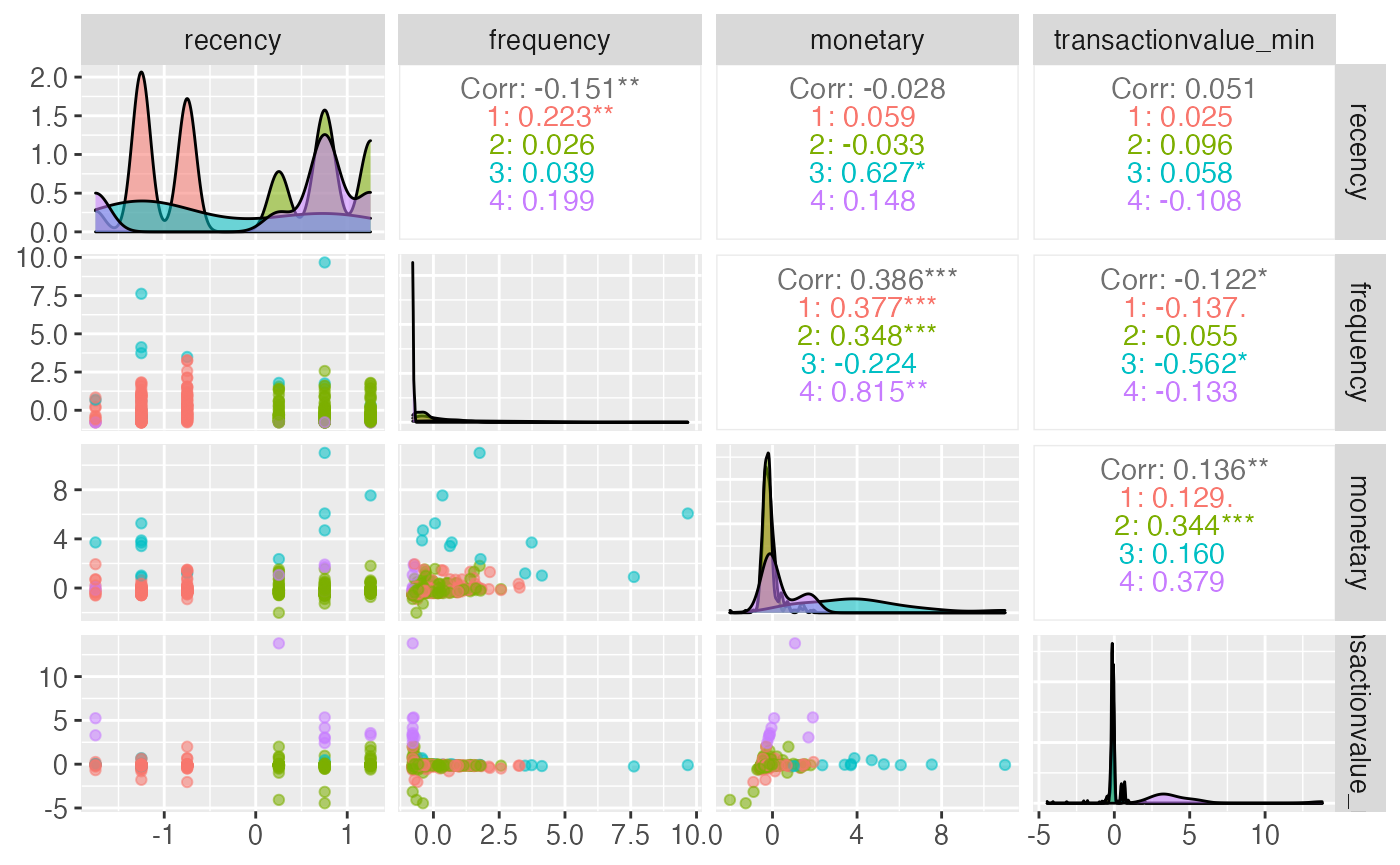
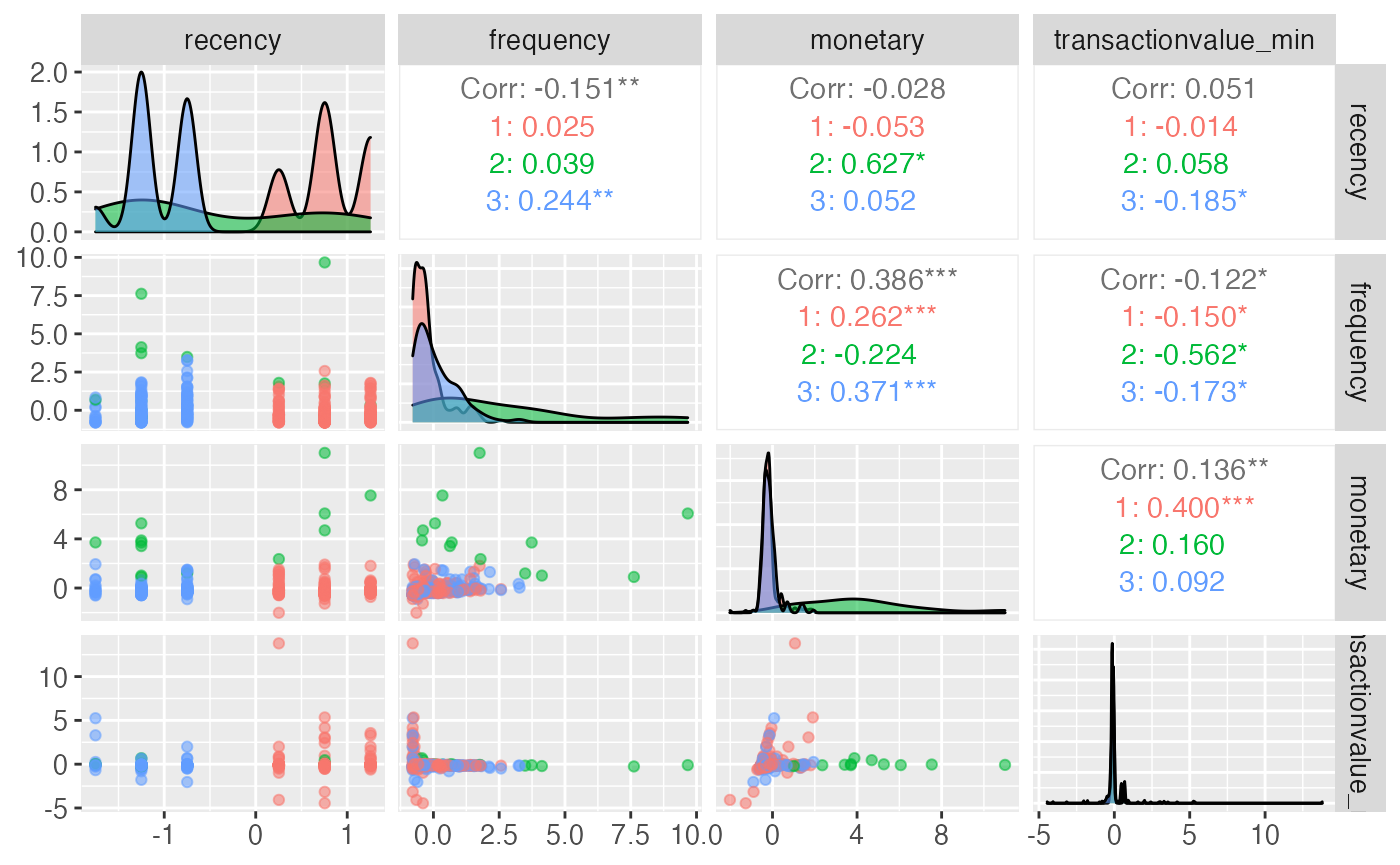
added output table articles

diff --git a/docs/articles/Output_Layer.html b/docs/articles/Output_Layer.html
@@ -5,13 +5,13 @@
 <meta charset="utf-8">
 <meta http-equiv="X-UA-Compatible" content="IE=edge">
 <meta name="viewport" content="width=device-width, initial-scale=1.0">
-<title>Output Layer • citrus</title>
+<title>Output Table • citrus</title>
 <!-- jquery --><script src="https://cdnjs.cloudflare.com/ajax/libs/jquery/3.4.1/jquery.min.js" integrity="sha256-CSXorXvZcTkaix6Yvo6HppcZGetbYMGWSFlBw8HfCJo=" crossorigin="anonymous"></script><!-- Bootstrap --><link href="https://cdnjs.cloudflare.com/ajax/libs/bootswatch/3.4.0/cosmo/bootstrap.min.css" rel="stylesheet" crossorigin="anonymous">
 <script src="https://cdnjs.cloudflare.com/ajax/libs/twitter-bootstrap/3.4.1/js/bootstrap.min.js" integrity="sha256-nuL8/2cJ5NDSSwnKD8VqreErSWHtnEP9E7AySL+1ev4=" crossorigin="anonymous"></script><!-- bootstrap-toc --><link rel="stylesheet" href="../bootstrap-toc.css">
 <script src="../bootstrap-toc.js"></script><!-- Font Awesome icons --><link rel="stylesheet" href="https://cdnjs.cloudflare.com/ajax/libs/font-awesome/5.12.1/css/all.min.css" integrity="sha256-mmgLkCYLUQbXn0B1SRqzHar6dCnv9oZFPEC1g1cwlkk=" crossorigin="anonymous">
 <link rel="stylesheet" href="https://cdnjs.cloudflare.com/ajax/libs/font-awesome/5.12.1/css/v4-shims.min.css" integrity="sha256-wZjR52fzng1pJHwx4aV2AO3yyTOXrcDW7jBpJtTwVxw=" crossorigin="anonymous">
 <!-- clipboard.js --><script src="https://cdnjs.cloudflare.com/ajax/libs/clipboard.js/2.0.6/clipboard.min.js" integrity="sha256-inc5kl9MA1hkeYUt+EC3BhlIgyp/2jDIyBLS6k3UxPI=" crossorigin="anonymous"></script><!-- headroom.js --><script src="https://cdnjs.cloudflare.com/ajax/libs/headroom/0.11.0/headroom.min.js" integrity="sha256-AsUX4SJE1+yuDu5+mAVzJbuYNPHj/WroHuZ8Ir/CkE0=" crossorigin="anonymous"></script><script src="https://cdnjs.cloudflare.com/ajax/libs/headroom/0.11.0/jQuery.headroom.min.js" integrity="sha256-ZX/yNShbjqsohH1k95liqY9Gd8uOiE1S4vZc+9KQ1K4=" crossorigin="anonymous"></script><!-- pkgdown --><link href="../pkgdown.css" rel="stylesheet">
-<script src="../pkgdown.js"></script><meta property="og:title" content="Output Layer">
+<script src="../pkgdown.js"></script><meta property="og:title" content="Output Table">
 <meta property="og:description" content="citrus">
 <!-- mathjax --><script src="https://cdnjs.cloudflare.com/ajax/libs/mathjax/2.7.5/MathJax.js" integrity="sha256-nvJJv9wWKEm88qvoQl9ekL2J+k/RWIsaSScxxlsrv8k=" crossorigin="anonymous"></script><script src="https://cdnjs.cloudflare.com/ajax/libs/mathjax/2.7.5/config/TeX-AMS-MML_HTMLorMML.js" integrity="sha256-84DKXVJXs0/F8OTMzX4UR909+jtl4G7SPypPavF+GfA=" crossorigin="anonymous"></script><!--[if lt IE 9]>
 <script src="https://oss.maxcdn.com/html5shiv/3.7.3/html5shiv.min.js"></script>
@@ -69,7 +69,7 @@
       <a href="../articles/Model_Management.html">Model Management</a>
     </li>
     <li>
-      <a href="../articles/Output_Layer.html">Output Layer</a>
+      <a href="../articles/Output_Layer.html">Output Table</a>
     </li>
     <li>
       <a href="../articles/Preprocessing.html">Preprocessing</a>
@@ -96,7 +96,7 @@
       </header><script src="Output_Layer_files/header-attrs-2.8/header-attrs.js"></script><div class="row">
   <div class="col-md-9 contents">
     <div class="page-header toc-ignore">
-      <h1 data-toc-skip>Output Layer</h1>
+      <h1 data-toc-skip>Output Table</h1>
             
       
       
@@ -107,12 +107,87 @@
     
     
 <div class="sourceCode" id="cb1"><pre class="downlit sourceCode r">
-<code class="sourceCode R"><span class="kw"><a href="https://rdrr.io/r/base/library.html">library</a></span><span class="op">(</span><span class="va">citrus</span><span class="op">)</span></code></pre></div>
+<code class="sourceCode R"><span class="kw"><a href="https://rdrr.io/r/base/library.html">library</a></span><span class="op">(</span><span class="va">citrus</span><span class="op">)</span>
+<span class="kw"><a href="https://rdrr.io/r/base/library.html">library</a></span><span class="op">(</span><span class="va"><a href="https://dplyr.tidyverse.org">dplyr</a></span><span class="op">)</span>
+<span class="co">#&gt; </span>
+<span class="co">#&gt; Attaching package: 'dplyr'</span>
+<span class="co">#&gt; The following objects are masked from 'package:stats':</span>
+<span class="co">#&gt; </span>
+<span class="co">#&gt;     filter, lag</span>
+<span class="co">#&gt; The following objects are masked from 'package:base':</span>
+<span class="co">#&gt; </span>
+<span class="co">#&gt;     intersect, setdiff, setequal, union</span></code></pre></div>
+<p>The <code>CITRUS</code> package is built in a modular fashion, where the last module of the pipeline is the output table. The purpose of this module is to produce an understandable output from the segmentation models that explains how the input data has been divided.</p>
+<p>Currently the output table takes the input data and a segmentation model object as inputs and produces a table displaying the segment number and some summary statistics. The summary statistics are dependent on the variables used to segment that are defined in the <code>segmentation_variables</code> section of the model object, all variables in that list will be aggregated by segment. Depending on the column type, different aggregations are used, for categorical columns, the mode and top 5 categories are calculated for each segment, for numeric columns, the mean and range by segment are provided.</p>
+<p>There are visualisations that explain the different segments in a similar way to the table that can be seen in <a href="https://peak-ai.github.io/CITRUS/articles/Visualisations.html" class="uri">https://peak-ai.github.io/CITRUS/articles/Visualisations.html</a></p>
+<div id="an-example" class="section level2">
+<h2 class="hasAnchor">
+<a href="#an-example" class="anchor"></a>An Example</h2>
+<p>In order to run the output table, a segmentation model output is required. The below code creates the segmentation model output that is run through the output table function to produce the table displayed.</p>
+<div class="sourceCode" id="cb2"><pre class="downlit sourceCode r">
+<code class="sourceCode R"><span class="va">hyperparameters</span> <span class="op">&lt;-</span> <span class="fu"><a href="https://rdrr.io/r/base/list.html">list</a></span><span class="op">(</span>dependent_variable <span class="op">=</span> <span class="st">'response'</span>,
+                       min_segmentation_fraction <span class="op">=</span> <span class="fl">0.05</span>,
+                       number_of_personas <span class="op">=</span> <span class="fl">6</span>,
+                       print_plot <span class="op">=</span> <span class="cn">FALSE</span>,
+                       print_safety_check<span class="op">=</span><span class="fl">20</span><span class="op">)</span>
+
+<span class="va">formatted</span> <span class="op">&lt;-</span> <span class="fu"><a href="../reference/preprocess.html">preprocess</a></span><span class="op">(</span><span class="fu">citrus</span><span class="fu">::</span><span class="va"><a href="../reference/transactional_data.html">transactional_data</a></span>,
+                       categories <span class="op">=</span> <span class="fu"><a href="https://rdrr.io/r/base/c.html">c</a></span><span class="op">(</span><span class="st">'country'</span><span class="op">)</span>, 
+                       numeric_operation_list <span class="op">=</span> <span class="fu"><a href="https://rdrr.io/r/base/c.html">c</a></span><span class="op">(</span><span class="st">'min'</span>, <span class="st">'sd'</span><span class="op">)</span>,
+                       target <span class="op">=</span> <span class="st">'desc_chars'</span>, 
+                       target_agg <span class="op">=</span> <span class="st">'mean'</span><span class="op">)</span>
+<span class="co">#&gt; [1] "Please ensure columns are renamed accordingly:"</span>
+<span class="co">#&gt; [1] "Customer Identifier: customerid"</span>
+<span class="co">#&gt; [1] "Transaction Identifier: transactionid"</span>
+<span class="co">#&gt; [1] "Transaction Date: orderdate"</span>
+<span class="co">#&gt; [1] "Value Column: transactionvalue"</span>
+<span class="co">#&gt; [1] "Target column: desc_chars (mean)"</span>
+<span class="co">#&gt; Calculating target values</span>
+<span class="fu"><a href="../reference/validate.html">validate</a></span><span class="op">(</span><span class="va">formatted</span>, supervised <span class="op">=</span> <span class="cn">TRUE</span>, hyperparameters <span class="op">=</span> <span class="va">hyperparameters</span><span class="op">)</span>
+<span class="co">#&gt; [1] TRUE</span>
+<span class="va">model</span> <span class="op">&lt;-</span> <span class="fu"><a href="../reference/tree_segment.html">tree_segment</a></span><span class="op">(</span><span class="va">formatted</span>, <span class="va">hyperparameters</span><span class="op">)</span>
+<span class="va">model</span> <span class="op">&lt;-</span> <span class="fu"><a href="../reference/tree_segment_prettify.html">tree_segment_prettify</a></span><span class="op">(</span><span class="va">model</span>,print_plot <span class="op">=</span> <span class="cn">T</span><span class="op">)</span></code></pre></div>
+<p><img src="Output_Layer_files/figure-html/unnamed-chunk-2-1.png" width="700"></p>
+<div class="sourceCode" id="cb3"><pre class="downlit sourceCode r">
+<code class="sourceCode R"><span class="va">model</span> <span class="op">&lt;-</span> <span class="fu"><a href="../reference/tree_abstract.html">tree_abstract</a></span><span class="op">(</span><span class="va">model</span>, <span class="fu">citrus</span><span class="fu">::</span><span class="va"><a href="../reference/preprocessed_data.html">preprocessed_data</a></span><span class="op">)</span>
+<span class="fu"><a href="../reference/model_management.html">model_management</a></span><span class="op">(</span><span class="va">model</span>,<span class="va">hyperparameters</span><span class="op">)</span>
+<span class="fu"><a href="../reference/output_table.html">output_table</a></span><span class="op">(</span><span class="fu">citrus</span><span class="fu">::</span><span class="va"><a href="../reference/preprocessed_data.html">preprocessed_data</a></span>,<span class="va">model</span><span class="op">)</span>
+<span class="co">#&gt; Warning: `summarise_each_()` was deprecated in dplyr 0.7.0.</span>
+<span class="co">#&gt; Please use `across()` instead.</span>
+<span class="co">#&gt; Warning: `funs()` was deprecated in dplyr 0.8.0.</span>
+<span class="co">#&gt; Please use a list of either functions or lambdas: </span>
+<span class="co">#&gt; </span>
+<span class="co">#&gt;   # Simple named list: </span>
+<span class="co">#&gt;   list(mean = mean, median = median)</span>
+<span class="co">#&gt; </span>
+<span class="co">#&gt;   # Auto named with `tibble::lst()`: </span>
+<span class="co">#&gt;   tibble::lst(mean, median)</span>
+<span class="co">#&gt; </span>
+<span class="co">#&gt;   # Using lambdas</span>
+<span class="co">#&gt;   list(~ mean(., trim = .2), ~ median(., na.rm = TRUE))</span>
+<span class="co">#&gt; # A tibble: 6 × 16</span>
+<span class="co">#&gt;   segment     n mean_value percentage frequency_mean frequency_range</span>
+<span class="co">#&gt;     &lt;int&gt; &lt;int&gt;      &lt;dbl&gt; &lt;chr&gt;               &lt;dbl&gt; &lt;chr&gt;          </span>
+<span class="co">#&gt; 1       1    21       23.7 5.1%                17.6  1 - 84         </span>
+<span class="co">#&gt; 2       2    20       28.0 4.9%                15.6  1 - 96         </span>
+<span class="co">#&gt; 3       3    21       27.9 5.1%                18.8  2 - 63         </span>
+<span class="co">#&gt; 4       4    26       25.4 6.3%                 1.88 1 - 5          </span>
+<span class="co">#&gt; 5       5    76       26.2 18.5%               43.4  1 - 297        </span>
+<span class="co">#&gt; 6       6   246       26.9 60%                 20.8  1 - 96         </span>
+<span class="co">#&gt; # … with 10 more variables: monetary_mean &lt;dbl&gt;, monetary_range &lt;chr&gt;,</span>
+<span class="co">#&gt; #   recency_mean &lt;dbl&gt;, recency_range &lt;chr&gt;, top_country_mode &lt;chr&gt;,</span>
+<span class="co">#&gt; #   top_country_top5 &lt;chr&gt;, transactionvalue_min_mean &lt;dbl&gt;,</span>
+<span class="co">#&gt; #   transactionvalue_min_range &lt;chr&gt;, transactionvalue_sd_mean &lt;dbl&gt;,</span>
+<span class="co">#&gt; #   transactionvalue_sd_range &lt;chr&gt;</span></code></pre></div>
+<p>Currently, the output function is set to produce the above outputs only. Functionality could be added in to customise the output table and provide more default functions or even add custom functions to aggregate on.</p>
+</div>
   </div>
 
   <div class="col-md-3 hidden-xs hidden-sm" id="pkgdown-sidebar">
 
-      </div>
+        <nav id="toc" data-toggle="toc"><h2 data-toc-skip>Contents</h2>
+    </nav>
+</div>
 
 </div>
 

diff --git a/docs/articles/KProto.html b/docs/articles/KProto.html
@@ -69,7 +69,7 @@
       <a href="../articles/Model_Management.html">Model Management</a>
     </li>
     <li>
-      <a href="../articles/Output_Layer.html">Output Layer</a>
+      <a href="../articles/Output_Layer.html">Output Table</a>
     </li>
     <li>
       <a href="../articles/Preprocessing.html">Preprocessing</a>
@@ -126,7 +126,7 @@
 <span class="co">#&gt; Variables have 0 NAs</span>
 <span class="co">#&gt; Data contain only numeric feautures: using kmeans algorithm</span>
 <span class="co">#&gt; Optimising number of clusters</span>
-<span class="co">#&gt; Number of optimal clusters: 4</span>
+<span class="co">#&gt; Number of optimal clusters: 3</span>
 <span class="co">#&gt; Number of rows: 410</span>
 <span class="co">#&gt; Prettifying output data</span>
 <span class="co">#&gt; Registered S3 method overwritten by 'GGally':</span>

diff --git a/docs/articles/index.html b/docs/articles/index.html
@@ -109,7 +109,7 @@
       <a href="../articles/Model_Management.html">Model Management</a>
     </li>
     <li>
-      <a href="../articles/Output_Layer.html">Output Layer</a>
+      <a href="../articles/Output_Layer.html">Output Table</a>
     </li>
     <li>
       <a href="../articles/Preprocessing.html">Preprocessing</a>
@@ -154,7 +154,7 @@
         <dd></dt>
         <dt><a href="Model_Management.html">Model Management</a></dt>
         <dd></dt>
-        <dt><a href="Output_Layer.html">Output Layer</a></dt>
+        <dt><a href="Output_Layer.html">Output Table</a></dt>
         <dd></dt>
         <dt><a href="Preprocessing.html">Preprocessing</a></dt>
         <dd></dt>

diff --git a/docs/reference/citrus_pair_plot.html b/docs/reference/citrus_pair_plot.html
@@ -110,7 +110,7 @@
       <a href="../articles/Model_Management.html">Model Management</a>
     </li>
     <li>
-      <a href="../articles/Output_Layer.html">Output Layer</a>
+      <a href="../articles/Output_Layer.html">Output Table</a>
     </li>
     <li>
       <a href="../articles/Preprocessing.html">Preprocessing</a>

diff --git a/docs/reference/index.html b/docs/reference/index.html
@@ -109,7 +109,7 @@
       <a href="../articles/Model_Management.html">Model Management</a>
     </li>
     <li>
-      <a href="../articles/Output_Layer.html">Output Layer</a>
+      <a href="../articles/Output_Layer.html">Output Table</a>
     </li>
     <li>
       <a href="../articles/Preprocessing.html">Preprocessing</a>

diff --git a/docs/reference/model_management.html b/docs/reference/model_management.html
@@ -110,7 +110,7 @@
       <a href="../articles/Model_Management.html">Model Management</a>
     </li>
     <li>
-      <a href="../articles/Output_Layer.html">Output Layer</a>
+      <a href="../articles/Output_Layer.html">Output Table</a>
     </li>
     <li>
       <a href="../articles/Preprocessing.html">Preprocessing</a>

diff --git a/docs/reference/output_table.html b/docs/reference/output_table.html
@@ -110,7 +110,7 @@
       <a href="../articles/Model_Management.html">Model Management</a>
     </li>
     <li>
-      <a href="../articles/Output_Layer.html">Output Layer</a>
+      <a href="../articles/Output_Layer.html">Output Table</a>
     </li>
     <li>
       <a href="../articles/Preprocessing.html">Preprocessing</a>

diff --git a/docs/reference/preprocess.html b/docs/reference/preprocess.html
@@ -110,7 +110,7 @@
       <a href="../articles/Model_Management.html">Model Management</a>
     </li>
     <li>
-      <a href="../articles/Output_Layer.html">Output Layer</a>
+      <a href="../articles/Output_Layer.html">Output Table</a>
     </li>
     <li>
       <a href="../articles/Preprocessing.html">Preprocessing</a>

diff --git a/docs/reference/preprocessed_data.html b/docs/reference/preprocessed_data.html
@@ -110,7 +110,7 @@
       <a href="../articles/Model_Management.html">Model Management</a>
     </li>
     <li>
-      <a href="../articles/Output_Layer.html">Output Layer</a>
+      <a href="../articles/Output_Layer.html">Output Table</a>
     </li>
     <li>
       <a href="../articles/Preprocessing.html">Preprocessing</a>

diff --git a/docs/reference/rpart.plot_pretty.html b/docs/reference/rpart.plot_pretty.html
@@ -110,7 +110,7 @@
       <a href="../articles/Model_Management.html">Model Management</a>
     </li>
     <li>
-      <a href="../articles/Output_Layer.html">Output Layer</a>
+      <a href="../articles/Output_Layer.html">Output Table</a>
     </li>
     <li>
       <a href="../articles/Preprocessing.html">Preprocessing</a>

diff --git a/docs/reference/segment.html b/docs/reference/segment.html
@@ -110,7 +110,7 @@
       <a href="../articles/Model_Management.html">Model Management</a>
     </li>
     <li>
-      <a href="../articles/Output_Layer.html">Output Layer</a>
+      <a href="../articles/Output_Layer.html">Output Table</a>
     </li>
     <li>
       <a href="../articles/Preprocessing.html">Preprocessing</a>

diff --git a/docs/reference/transactional_data.html b/docs/reference/transactional_data.html
@@ -110,7 +110,7 @@
       <a href="../articles/Model_Management.html">Model Management</a>
     </li>
     <li>
-      <a href="../articles/Output_Layer.html">Output Layer</a>
+      <a href="../articles/Output_Layer.html">Output Table</a>
     </li>
     <li>
       <a href="../articles/Preprocessing.html">Preprocessing</a>
